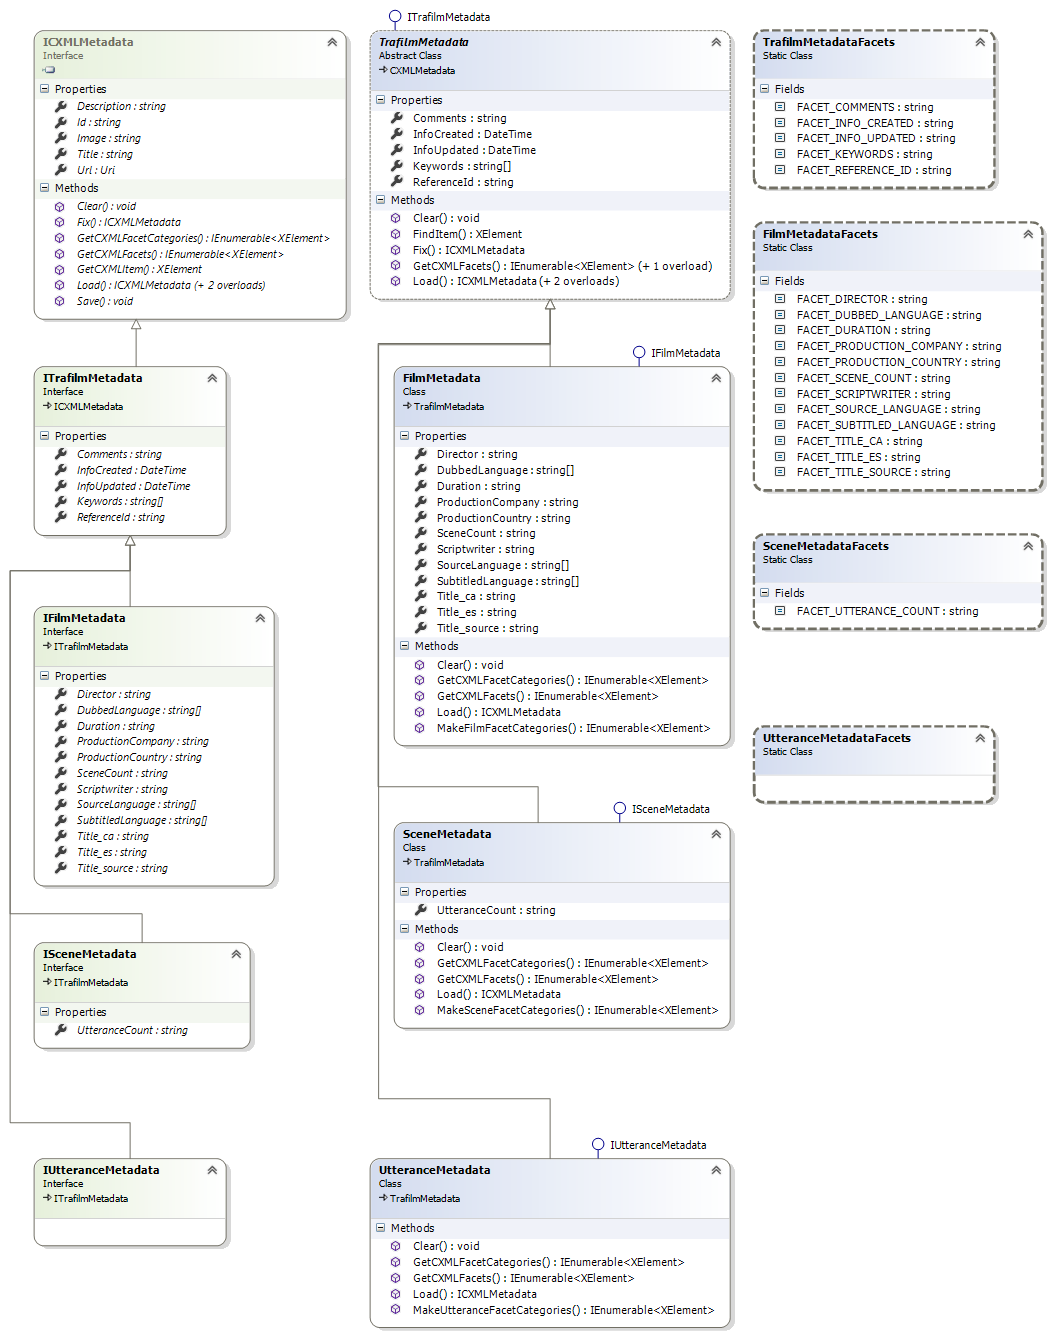
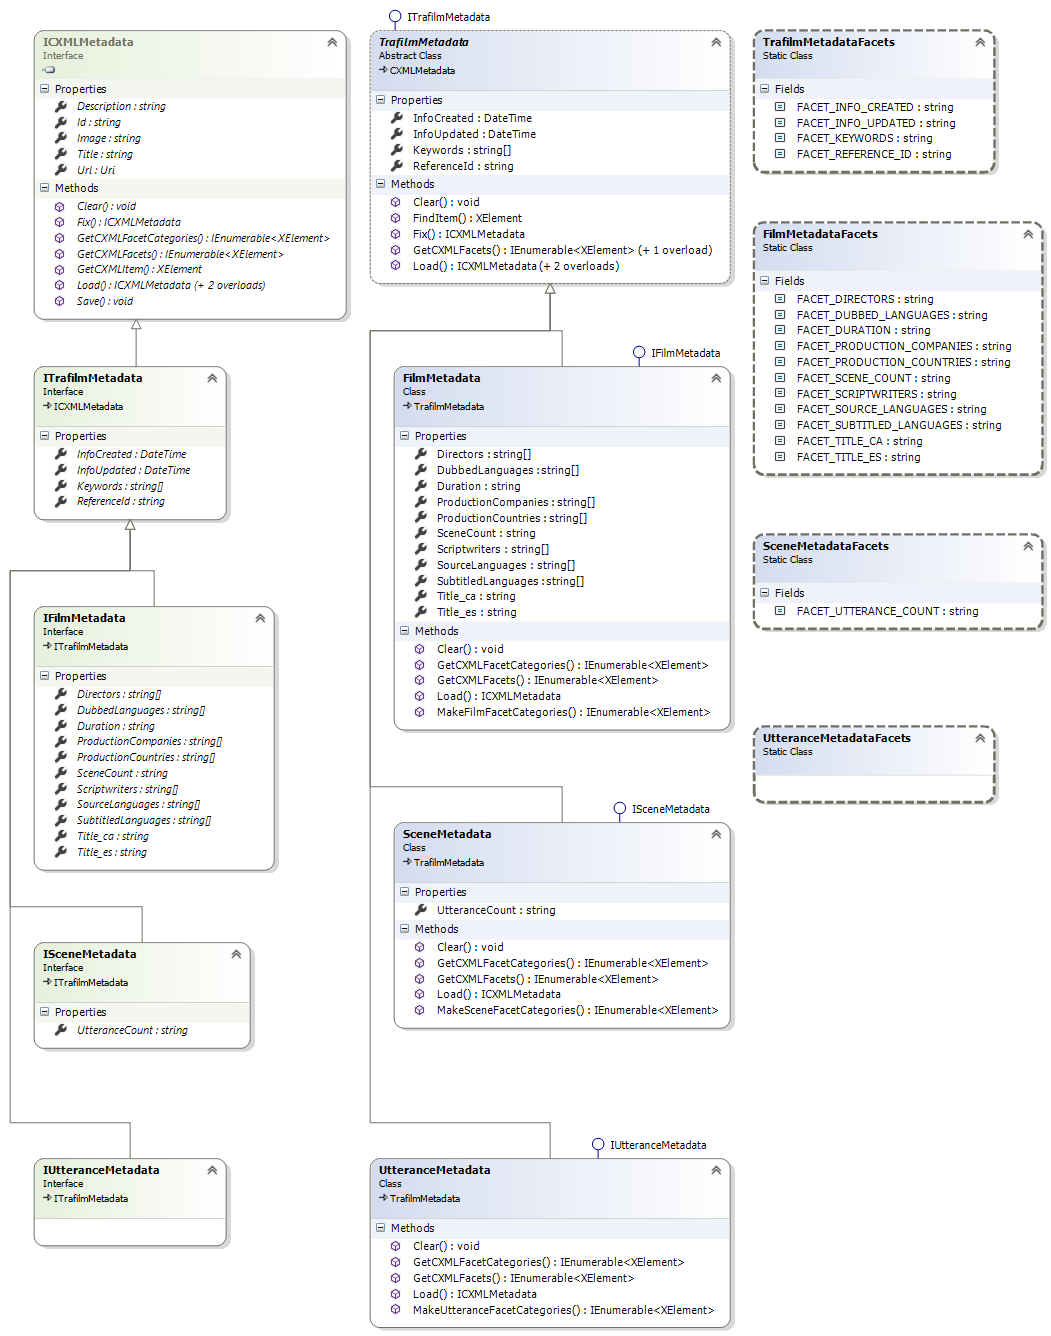
- Removed Title_source from IFilmMetadata, using Title from ICXMLMetadata instead - Exported new Diagrams image - Updated NuGet package

diff --git a/Metadata/Film/FilmMetadata.cs b/Metadata/Film/FilmMetadata.cs
@@ -15,7 +15,6 @@ namespace Trafilm.Metadata
 
     #region --- Properties ---
 
-    public string Title_source { get; set; }
     public string Title_es { get; set; }
     public string Title_ca { get; set; }
     //...
@@ -42,7 +41,6 @@ namespace Trafilm.Metadata
     {
       base.Clear();
 
-      Title_source = "";
       Title_es = "";
       Title_ca = "";
       //...
@@ -68,7 +66,6 @@ namespace Trafilm.Metadata
 
       IEnumerable<XElement> facets = FindFacets(item);
 
-      Title_source = facets.CXMLFacetStringValue(FilmMetadataFacets.FACET_TITLE_SOURCE);
       Title_es = facets.CXMLFacetStringValue(FilmMetadataFacets.FACET_TITLE_ES);
       Title_ca = facets.CXMLFacetStringValue(FilmMetadataFacets.FACET_TITLE_CA);
       //...
@@ -102,7 +99,6 @@ namespace Trafilm.Metadata
 
       base.GetCXMLFacets(facets);
 
-      AddNonNullToList(facets, CXML.MakeStringFacet(FilmMetadataFacets.FACET_TITLE_SOURCE, Title_source));
       AddNonNullToList(facets, CXML.MakeStringFacet(FilmMetadataFacets.FACET_TITLE_ES, Title_es));
       AddNonNullToList(facets, CXML.MakeStringFacet(FilmMetadataFacets.FACET_TITLE_CA, Title_ca));
       //...
@@ -134,7 +130,6 @@ namespace Trafilm.Metadata
 
       result.Add(CXML.MakeFacetCategory(TrafilmMetadataFacets.FACET_REFERENCE_ID, CXML.VALUE_STRING, null,isFilterVisible: false, isMetadataVisible: false, isWordWheelVisible: false));
 
-      result.Add(CXML.MakeFacetCategory(FilmMetadataFacets.FACET_TITLE_SOURCE, CXML.VALUE_STRING, null, isFilterVisible: false, isMetadataVisible: true, isWordWheelVisible: true));
       result.Add(CXML.MakeFacetCategory(FilmMetadataFacets.FACET_TITLE_ES, CXML.VALUE_STRING, null, isFilterVisible: false, isMetadataVisible: true, isWordWheelVisible: true));
       result.Add(CXML.MakeFacetCategory(FilmMetadataFacets.FACET_TITLE_CA, CXML.VALUE_STRING, null, isFilterVisible: false, isMetadataVisible: true, isWordWheelVisible: true));
       //...

diff --git a/Metadata/Film/FilmMetadataFacets.cs b/Metadata/Film/FilmMetadataFacets.cs
@@ -7,7 +7,6 @@ namespace Trafilm.Metadata
 
   public static class FilmMetadataFacets
   {
-    public const string FACET_TITLE_SOURCE = "Source title";
     public const string FACET_TITLE_ES = "Title in Spanish";
     public const string FACET_TITLE_CA = "Title in Catalan";
     //...

diff --git a/Metadata/Film/IFilmMetadata.cs b/Metadata/Film/IFilmMetadata.cs
@@ -10,7 +10,6 @@ namespace Trafilm.Metadata
 
     #region --- Properties ---
 
-    string Title_source { get; set; }
     string Title_es { get; set; }
     string Title_ca { get; set; }
     //...
